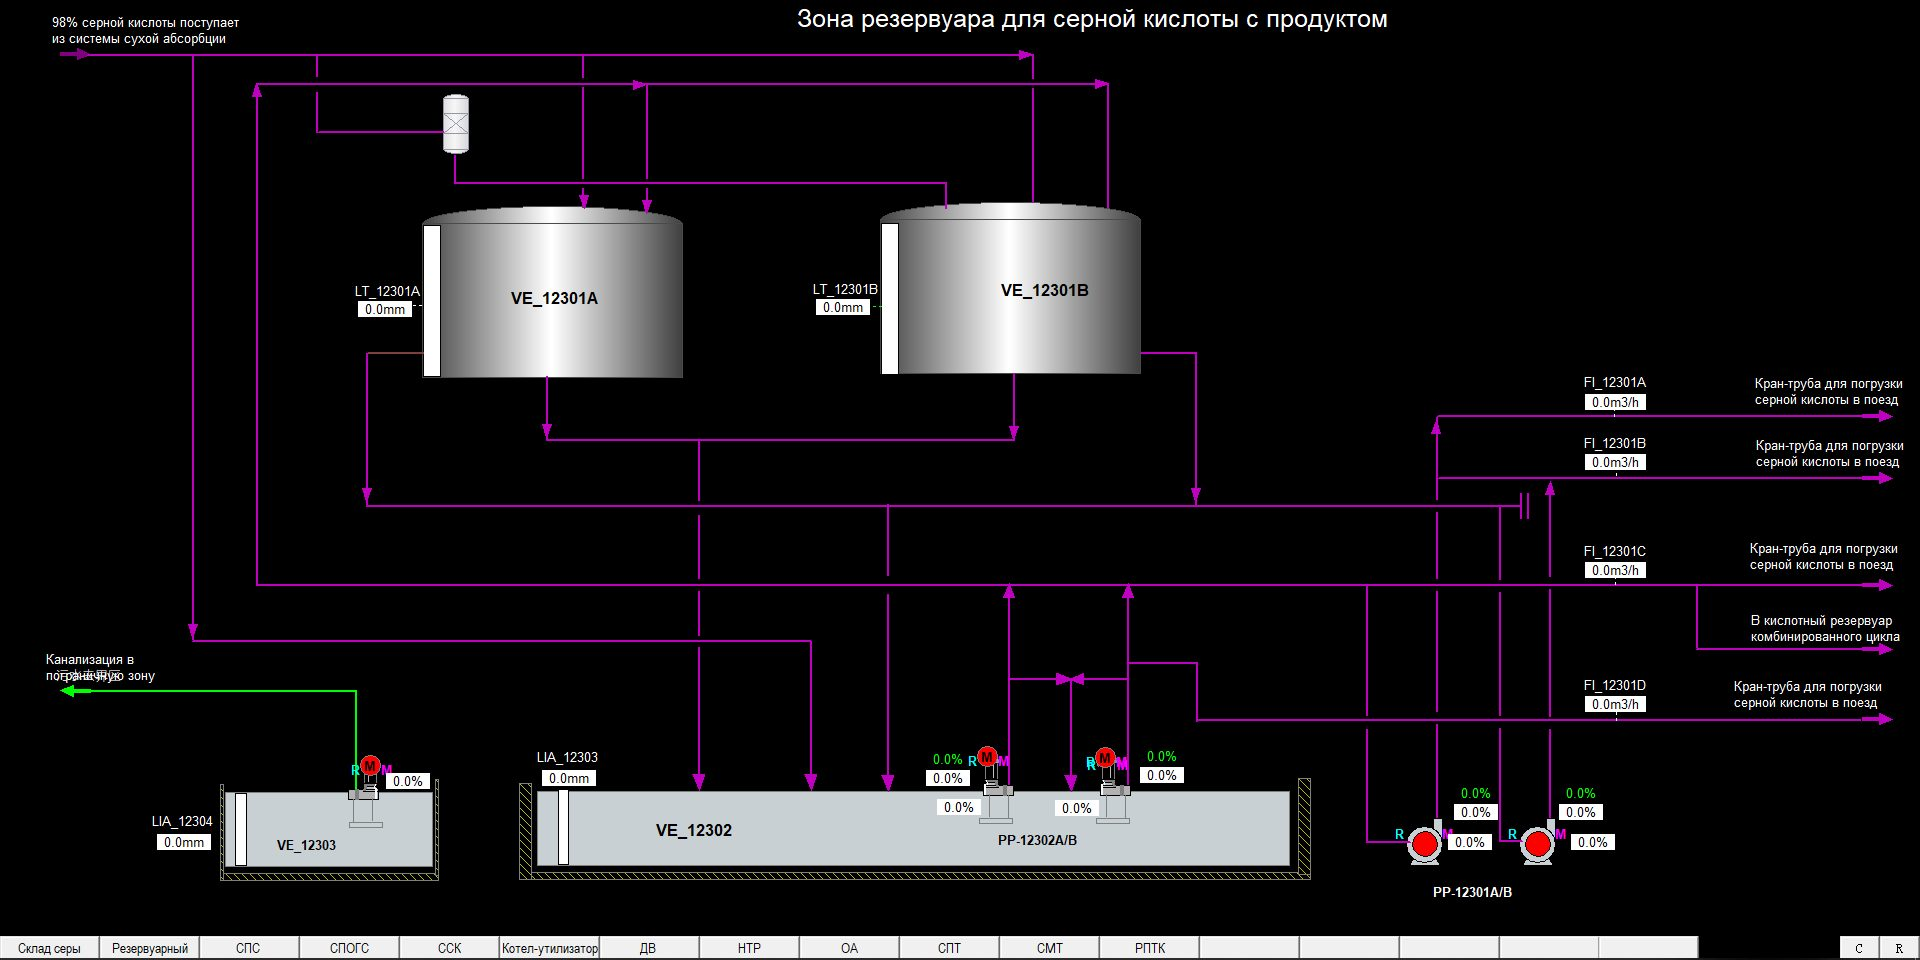
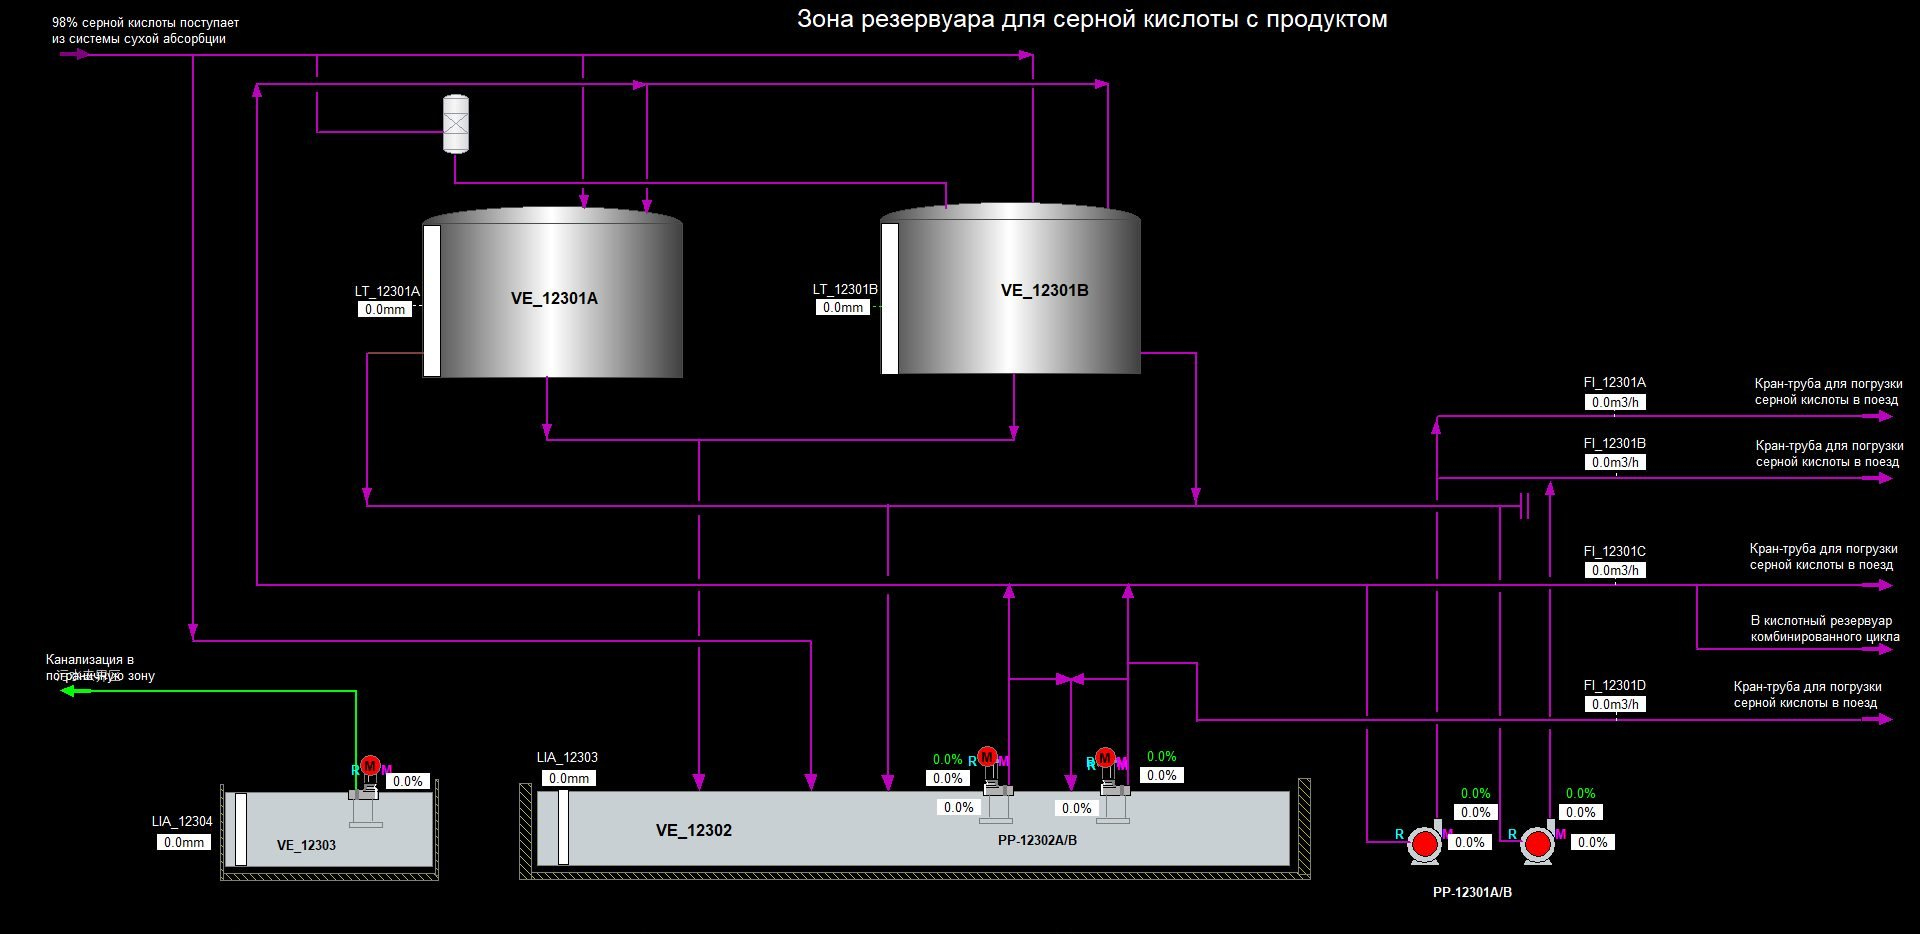
fix(mnemo): обрезана нижняя панель отделений, выбор экрана — списком
1. С нижней части всех 12 снимков убрана полоса отделений АСУТП: она не
   работала, но выглядела как рабочая и путала. Обрезка на 934 px, у всех
   снимков одинаково (панель занимает нижние 26 px).

   Координаты чипов пересчитаны: Y умножен на 960/934 = 1,0278, пропорция
   снимка стала 2,056 вместо 2,00 — она теперь хранится в screens.json
   полем ar и используется при вписывании.

2. Выбор экрана внутри панели — выпадающий список вместо ряда кнопок.
   В режиме 2 и 4 он занимает одну строку заголовка: «СПС — Плавление серы».

Проверено: раскладки 1/2/4 переключаются, схемы вписаны (пропорция 2,06),
чипы на своих полях, ошибок JS нет.

diff --git a/mnemo.html b/mnemo.html
@@ -36,9 +36,8 @@
   .pane.active{border-color:var(--accent)}
   .pane .top{display:flex;gap:4px;align-items:center;padding:2px 4px;background:#0d151d;font-size:11px;color:var(--ink3)}
   .pane .top .nm{color:var(--ink2);margin-right:auto;white-space:nowrap;overflow:hidden;text-overflow:ellipsis}
-  .pane .top button{background:transparent;border:0;color:var(--ink3);font:inherit;font-size:11px;
-    padding:1px 5px;border-radius:4px;cursor:pointer}
-  .pane .top button[aria-pressed="true"]{background:#1c2a38;color:#dff1ff}
+  .pane .top .pick{background:#16232f;color:#cfe6ff;border:1px solid #2b4152;border-radius:5px;
+    font:inherit;font-size:11px;padding:1px 4px;max-width:220px}
   .pane .box{position:relative;flex:1;min-height:0;overflow:hidden;display:flex;
     align-items:center;justify-content:center}
   /* Снимок вписывается целиком: высота задаёт ширину по пропорции 2:1,
@@ -351,14 +350,15 @@ function chipHtml(c) {
 function paneHtml(screenIdx, paneIdx) {
   const s = SCREENS[screenIdx];
   if (!s) return '';
-  const tabs = SCREENS.map((x, i) =>
-    '<button type="button" data-pane="' + paneIdx + '" data-scr="' + i + '"'
-    + (i === screenIdx ? ' aria-pressed="true"' : '') + '>' + (x.dept || x.id) + '</button>').join('');
+  const opts = SCREENS.map((x, i) =>
+    '<option value="' + i + '"' + (i === screenIdx ? ' selected' : '') + '>'
+    + (x.dept || x.id) + ' — ' + (x.title[lang] || x.title.ru) + '</option>').join('');
   return '<div class="pane' + (paneIdx === active ? ' active' : '') + (GRID ? ' grid' : '')
     + (showValues ? '' : ' hidden') + '" data-pane="' + paneIdx + '">'
     + '<div class="top"><span class="nm">' + (s.title[lang] || s.title.ru) + '</span>'
-    + (layout > 1 ? tabs : '') + '</div>'
-    + '<div class="box"><div class="shot"><img src="' + assetUrl(s.file) + '" alt="">'
+    + (layout > 1 ? '<select class="pick" data-pane="' + paneIdx + '">' + opts + '</select>' : '')
+    + '</div>'
+    + '<div class="box"><div class="shot" data-ar="' + (s.ar || 2) + '"><img src="' + assetUrl(s.file) + '" alt="">'
     + '<div class="chips">' + (s.chips || []).map(chipHtml).join('') + '</div>'
     + (s.spots || []).map((sp) => '<div class="spot' + (sp.kind === 'pump' ? ' pump' : '')
       + '" data-sp="' + sp.id + '" data-tag="' + sp.tag + '" data-kind="' + sp.kind
@@ -400,12 +400,13 @@ function paint() {
     paintAlarms();
   }
 
-  // выбор экрана внутри панели
-  box.querySelectorAll('button[data-scr]').forEach((b) => {
-    b.onclick = (e) => {
+  // выбор экрана внутри панели — выпадающий список
+  box.querySelectorAll('select.pick').forEach((sel) => {
+    sel.onclick = (e) => e.stopPropagation();
+    sel.onchange = (e) => {
       e.stopPropagation();
-      panes[+b.dataset.pane] = +b.dataset.scr;
-      active = +b.dataset.pane;
+      panes[+sel.dataset.pane] = +sel.value;
+      active = +sel.dataset.pane;
       paint();
     };
   });
@@ -455,7 +456,7 @@ function fitShots() {
     const w = box.clientWidth;
     const h = box.clientHeight;
     if (!w || !h) return;
-    const R = 2;
+    const R = parseFloat(shot.dataset.ar) || 2;
     const W = Math.min(w, h * R);
     const H = Math.round(W / R);
     shot.style.width = Math.round(W) + 'px';
